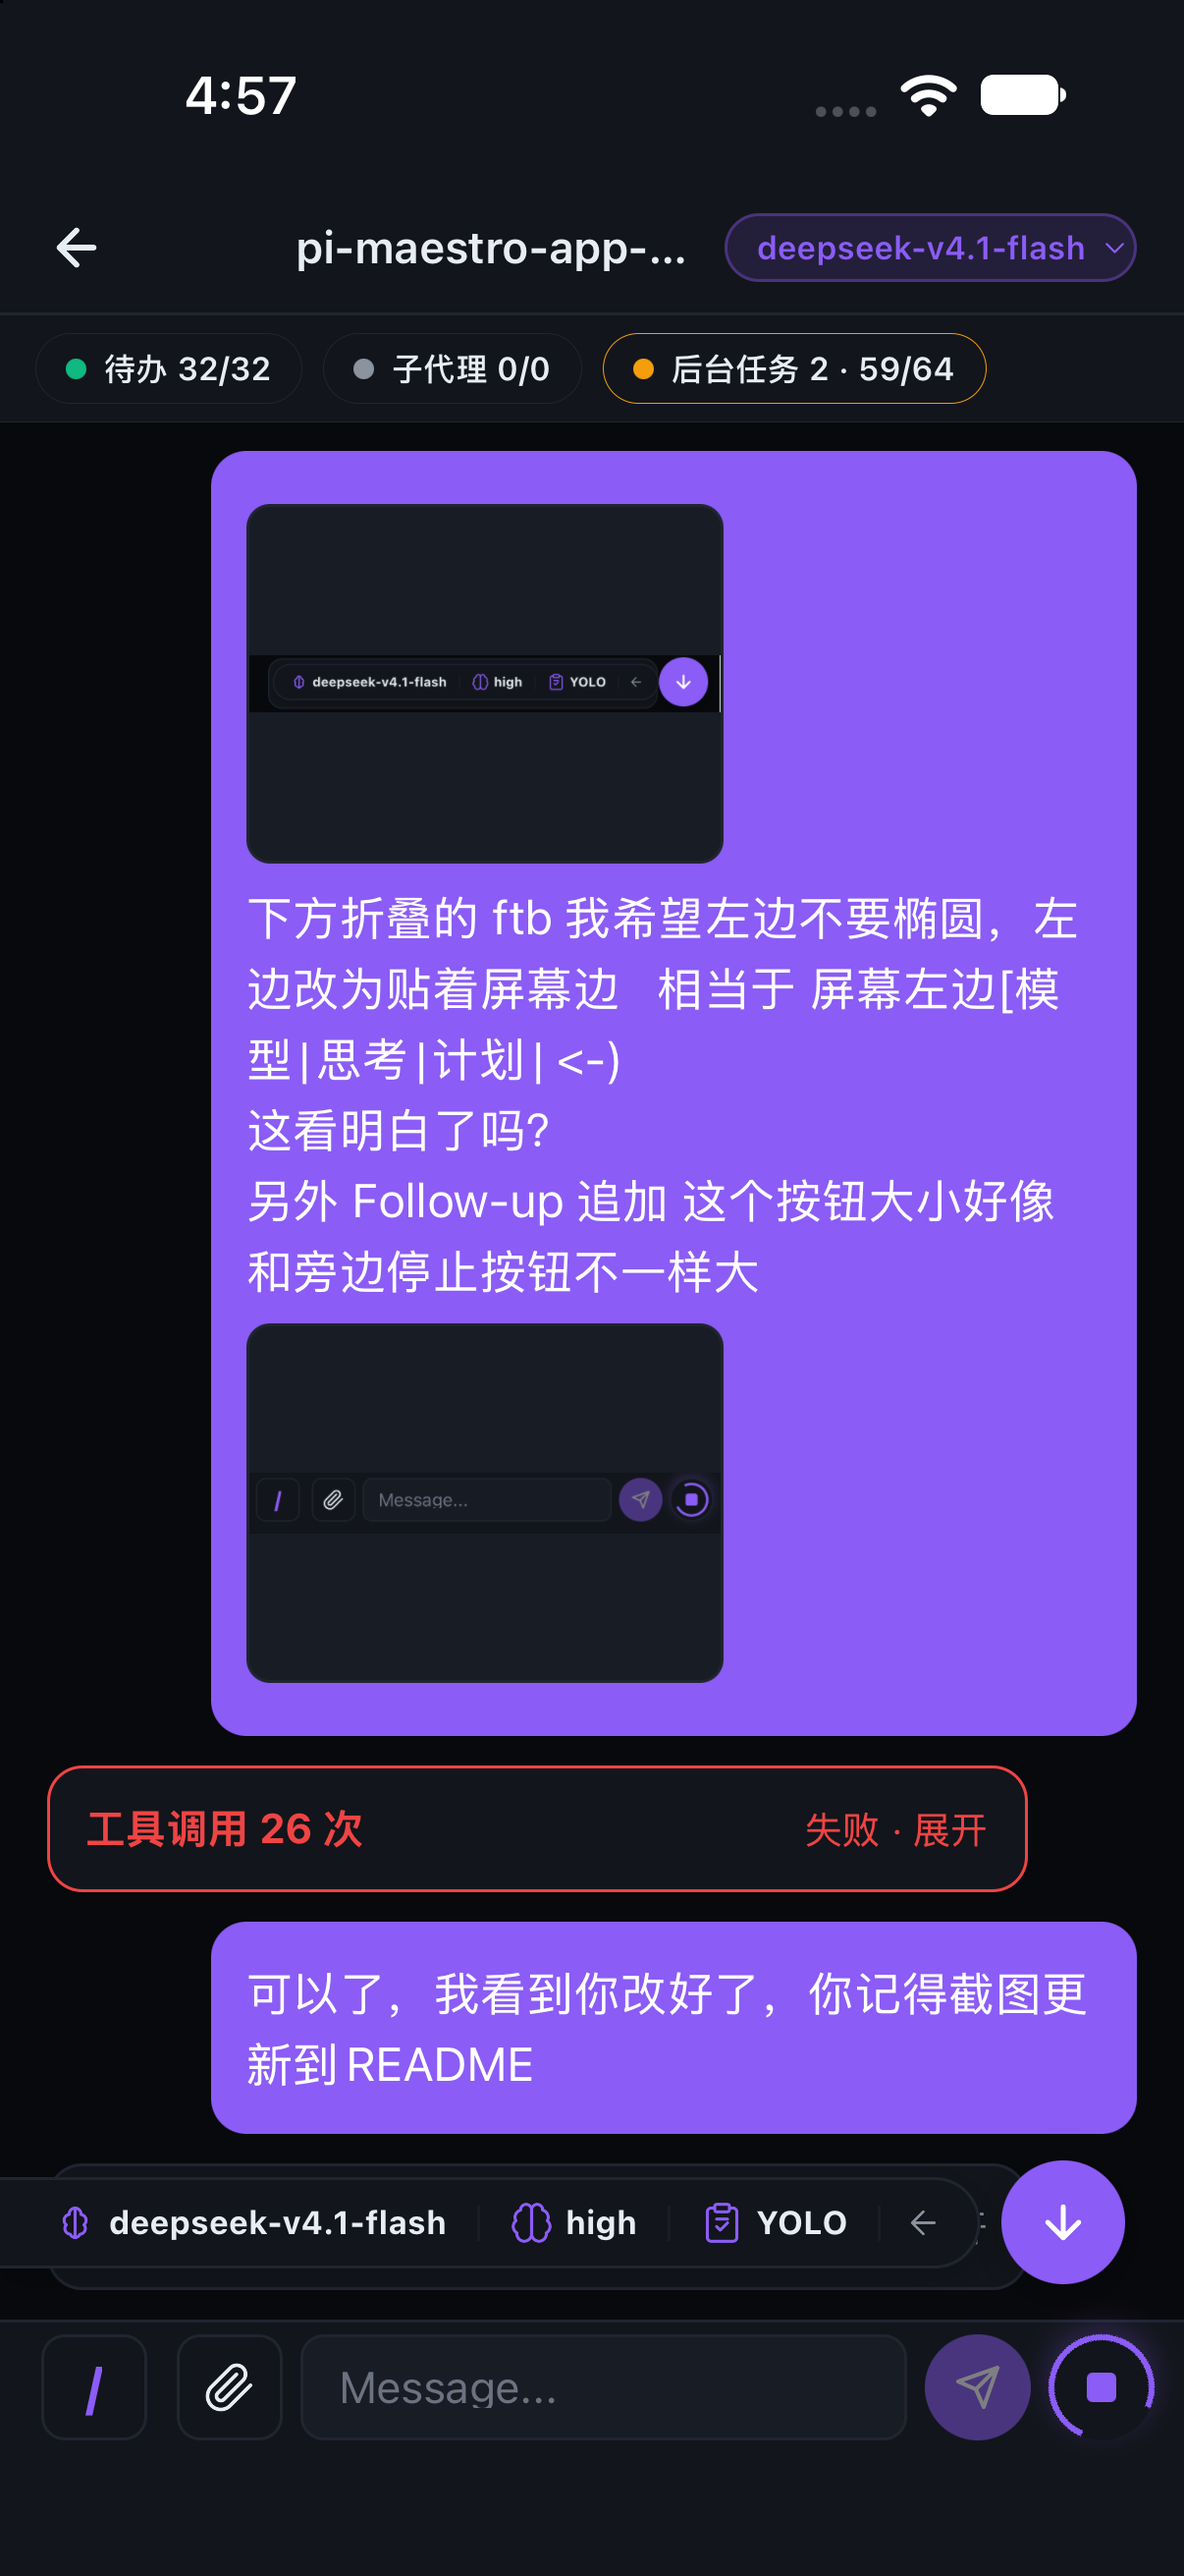
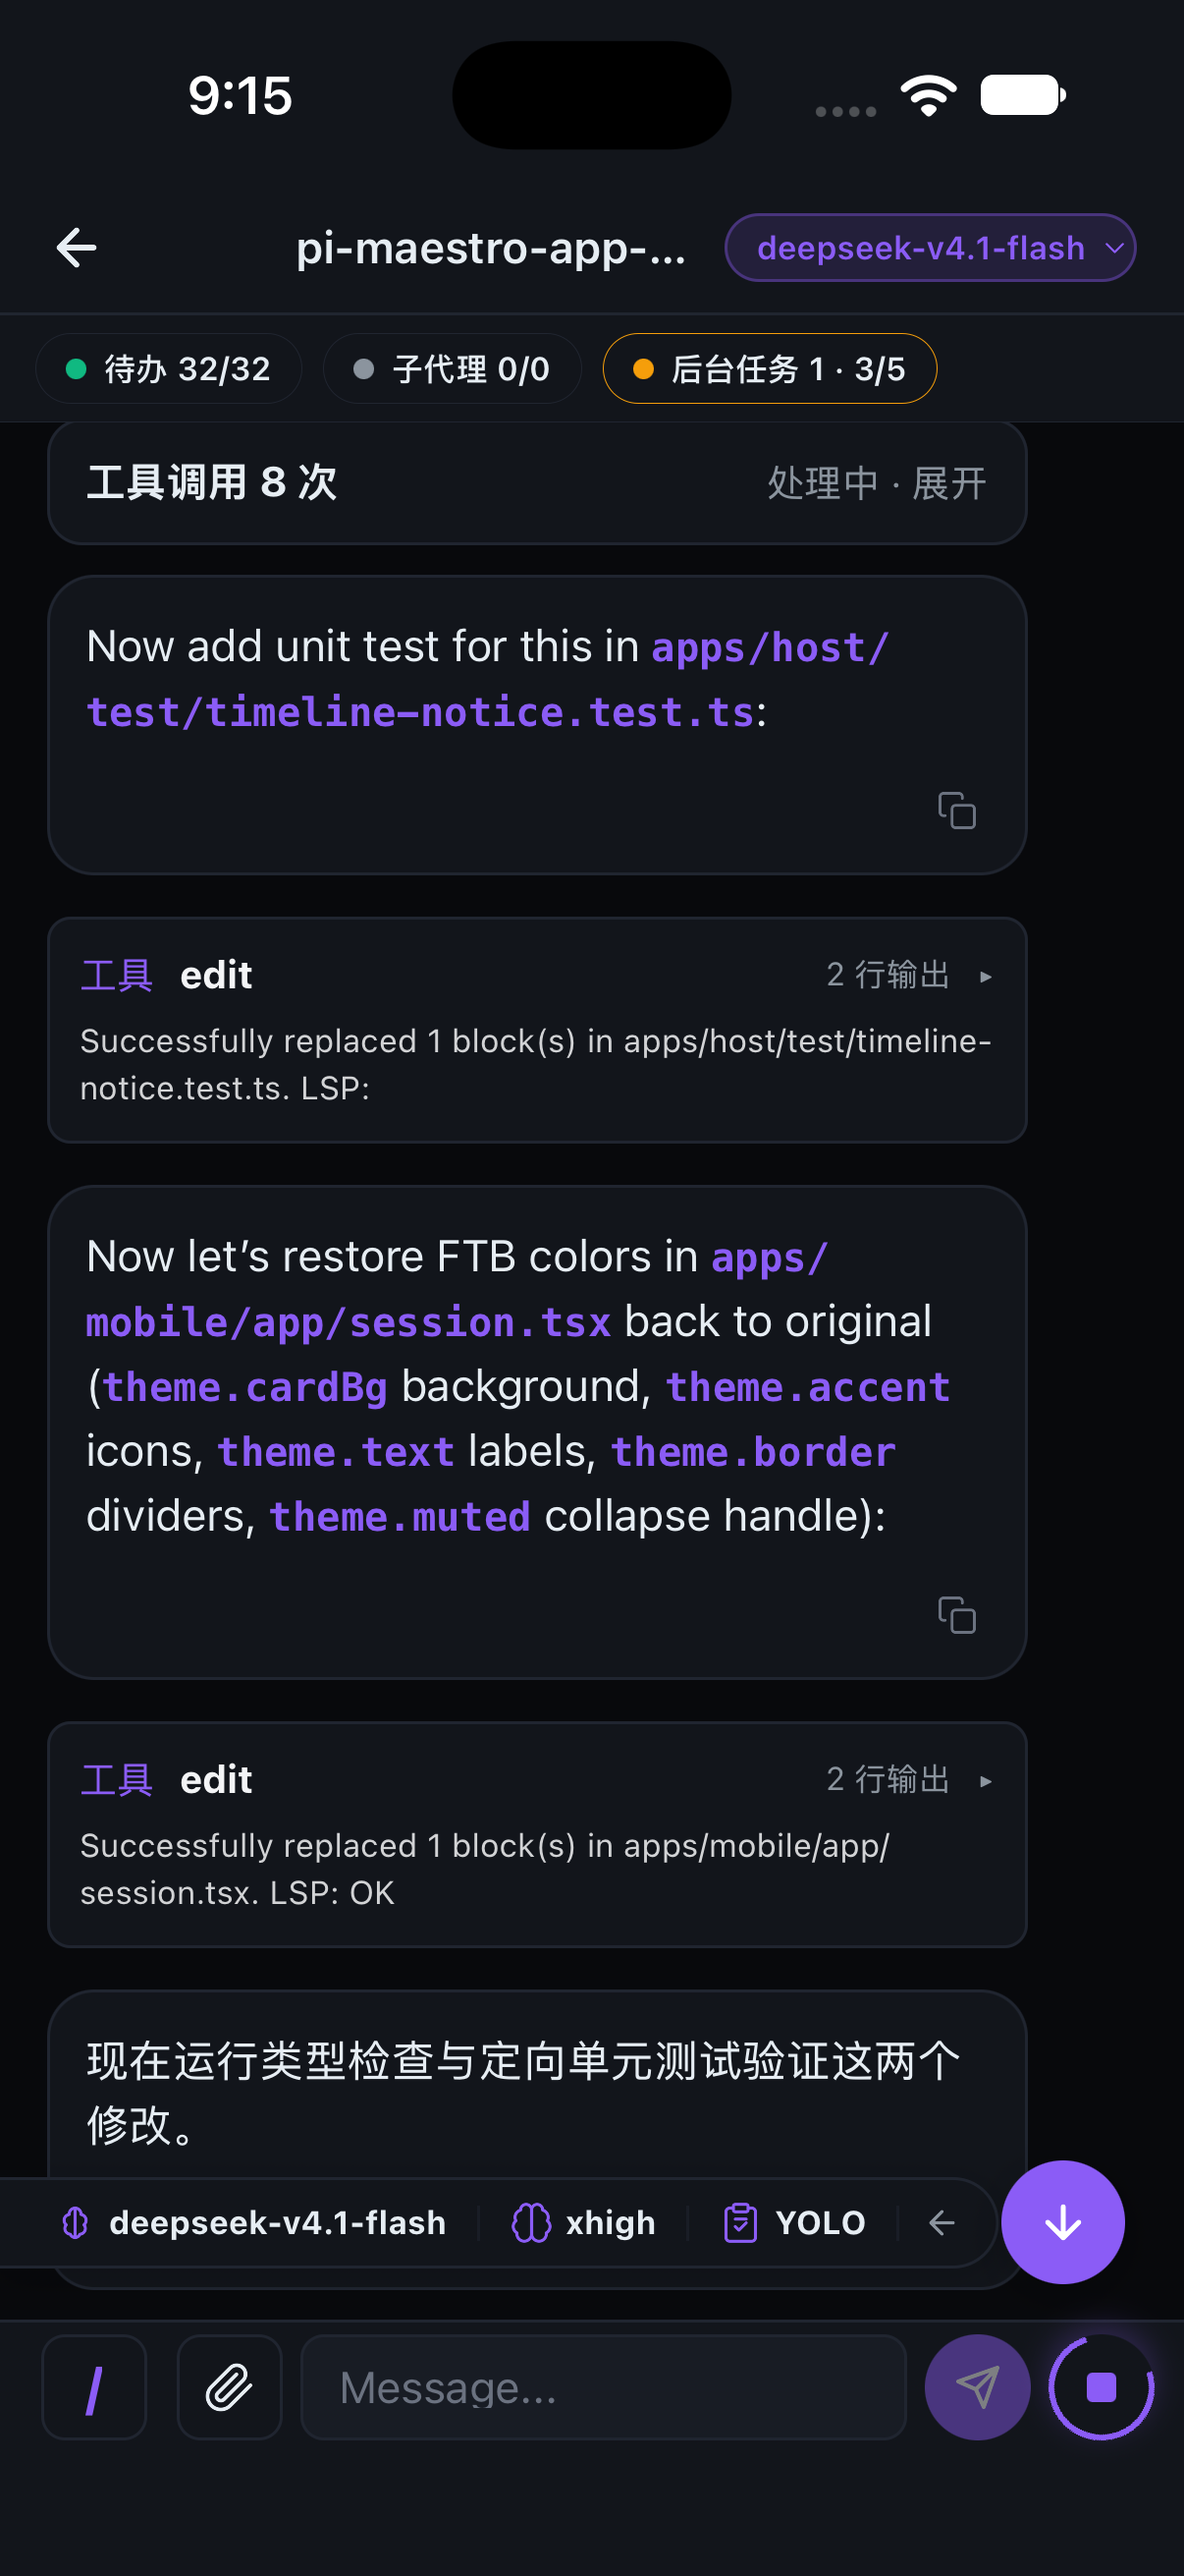
fix: 恢复 FTB 经典卡片配色并补齐中断恢复提示归类
- FTB 悬浮状态栏保留左侧平直贴边形态，背景色改回经典卡片色（theme.cardBg 底色、theme.accent 图标、theme.text 字体与 theme.border 边框）
- classifyCustomMessage 增加识别以 Continue the interrupted task from the compacted session checkpoint 开头及带 [maestro-recovery-delivery:...] 标记的恢复提示，归类为 system 通告，避免被渲染为紫色用户气泡
- 补充 timeline-notice 单元测试
- 重新捕获并更新 docs/images/screenshots/ios-chat.png 预览截图

diff --git a/apps/mobile/app/session.tsx b/apps/mobile/app/session.tsx
@@ -1274,7 +1274,7 @@ export default function SessionScreen() {
                 accessibilityLabel={t.toolbarExpand}
                 hitSlop={{ top: 8, bottom: 8, left: 8, right: 8 }}
               >
-                <LineIcon name="chevronRight" size={14} color={theme.accent} />
+                <LineIcon name="chevronRight" size={14} color={theme.accent} strokeWidth={2.2} />
               </TouchableOpacity>
             ) : (
               <>
@@ -1328,7 +1328,7 @@ export default function SessionScreen() {
                   accessibilityLabel={t.toolbarCollapse}
                   hitSlop={{ top: 8, bottom: 8, left: 6, right: 8 }}
                 >
-                  <LineIcon name="arrowLeft" size={13} color={theme.muted} />
+                  <LineIcon name="arrowLeft" size={13} color={theme.muted} strokeWidth={2.2} />
                 </TouchableOpacity>
               </>
             )}

diff --git a/apps/host/test/timeline-notice.test.ts b/apps/host/test/timeline-notice.test.ts
@@ -106,6 +106,16 @@ describe("classifyCustomMessage", () => {
       noticeKind: "system",
       text: "Continue the active goal: keep going until the acceptance criteria pass.",
     });
+
+    expect(classifyCustomMessage({
+      type: "custom_message",
+      customType: "unknown",
+      content: "Continue the interrupted task from the compacted session checkpoint. Do not wait for another user request.\n\n[maestro-recovery-delivery:33168ea1db5ffa423d543ad3]",
+    })).toEqual({
+      kind: "notice",
+      noticeKind: "system",
+      text: "Continue the interrupted task from the compacted session checkpoint. Do not wait for another user request.\n\n[maestro-recovery-delivery:33168ea1db5ffa423d543ad3]",
+    });
   });
 
   it("keeps unrelated unknown custom messages as user messages", () => {

diff --git a/apps/host/src/timeline-notice.ts b/apps/host/src/timeline-notice.ts
@@ -100,8 +100,12 @@ export function classifyCustomMessage(entry: Record<string, unknown>): CustomMes
     return { kind: "notice", noticeKind, text, ...(source ? { source } : {}) };
   }
 
-  // Pi continuation prompts are persisted as custom messages without a stable customType.
-  if (/^continue the active goal(?:\b|\s*[:：])/iu.test(text)) {
+  // Pi continuation / recovery prompts are persisted as custom messages without a stable customType.
+  if (
+    /^continue the active goal(?:\b|\s*[:：])/iu.test(text) ||
+    /^continue the interrupted task from the compacted session checkpoint/iu.test(text) ||
+    /\[maestro-recovery-delivery:[a-f0-9]+\]/i.test(text)
+  ) {
     return { kind: "notice", noticeKind: "system", text };
   }
 
